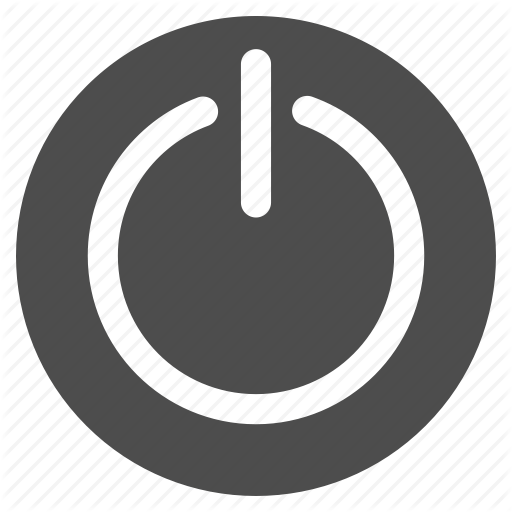
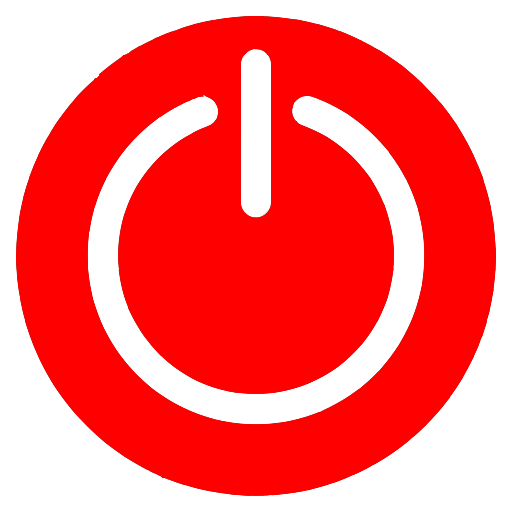
Update Button etc
Updated button with extra stuff

diff --git a/Testing_Pi/pyqt_base.py b/Testing_Pi/pyqt_base.py
@@ -17,6 +17,7 @@ class App(QWidget):
         self.widget=self
         self.left = 10
         self.top = 10
+        self.lastTrigger=time.time()
         self.width = 320
         self.height = 200
         self.setAutoFillBackground(True)
@@ -54,9 +55,9 @@ class App(QWidget):
         self.button.setIcon(QIcon('photo.png'))
         self.button.setIconSize(QSize(size, size))
         self.button.setGeometry(QRect(self.width/2-size/2-diff, self.height/2-size/2+diff*2, size+20, size+20))
-        self.button.clicked.connect(self.on_click)
+        self.button.clicked.connect(self.photo_click)
+        self.button.pressed.connect(self.photo_pressed)
         self.button.setStyleSheet(self.bstyle)
-        self.button.setFlat(True)
         
         #Button Exity
         self.button2 = QPushButton( self)
@@ -66,7 +67,8 @@ class App(QWidget):
         self.button2.setIcon(QIcon('off.png'))
         self.button2.setIconSize(QSize(size, size))
         self.button2.setGeometry(QRect(self.width/2-size/2+diff, self.height/2-size/2+diff*2, size+20, size+20))
-        self.button2.clicked.connect(self.on_click2)
+        self.button2.clicked.connect(self.close_click)
+        self.button2.pressed.connect(self.close_pressed)
         self.button2.setStyleSheet(self.bstyle)
         self.button2.setFlat(True)
 
@@ -76,7 +78,7 @@ class App(QWidget):
         self.sense=QLabel('Nothing to Sense',self)
         self.sense.setStyleSheet("background: transparent;color:white;font-size:36pt")
         width = self.sense.fontMetrics().boundingRect(self.sense.text()).width()
-        self.sense.move(self.width / 2 - width/2, 200)
+        self.sense.move(self.width / 2 - 220, 200)
         self.sense.update()
 
         #Show
@@ -84,15 +86,20 @@ class App(QWidget):
         self.showFullScreen()
 
     def gpio_callback(self,channel):
-        self.sense.setText('Proximity Sense')
-        width = self.sense.fontMetrics().boundingRect(self.sense.text()).width()
-        self.sense.move(self.width / 2 - width/2, 200)
-        self.sense.update()
+        if time.time() > self.lastTrigger + 5:
+            self.lastTrigger=time.time()
+            self.sense.setText('Proximity Sense')
+            width = self.sense.fontMetrics().boundingRect(self.sense.text()).width()
+            self.sense.move(self.width / 2 - width/2, 200)
+            self.sense.update()
+
     def gpio_callback2(self,channel):
-        self.sense.setText('PiR Sense')
-        width = self.sense.fontMetrics().boundingRect(self.sense.text()).width()
-        self.sense.move(self.width / 2 - width/2, 200)
-        self.sense.update()
+        if time.time() > self.lastTrigger + 5:
+            self.lastTrigger=time.time()
+            self.sense.setText('PiR Sense')
+            width = self.sense.fontMetrics().boundingRect(self.sense.text()).width()
+            self.sense.move(self.width / 2 - width/2, 200)
+            self.sense.update()
 
     def takePicture(self):
         if os.name == 'posix':
@@ -100,6 +107,8 @@ class App(QWidget):
             camera.resolution = (1920, 1080)
             camera.capture("test_image.jpg")
             camera.close()
+        else:
+            time.sleep(2)
         self.movie.stop()
         self.moviee.hide()
         pixmap = QPixmap("test_image.jpg")
@@ -119,14 +128,15 @@ class App(QWidget):
         self.moviee.setGeometry(
             QRect(self.width / 2 - size / 2, self.height / 2 - size / 2 - diff, size + 20, size + 20))
         self.moviee.setAttribute(Qt.WA_TranslucentBackground)
-        self.moviee.mouseReleaseEvent=self.on_click3
+        self.moviee.mouseReleaseEvent=self.gif_click
         # self.movie.start
 
 
 
     @pyqtSlot()
-    def on_click(self):
-        print("Qlabel")
+    def photo_click(self):
+        print("PyQt5 button1 click")
+        self.button.setIcon(QIcon('photo.png'))
         self.image.hide()
         self.t1=threading.Thread(target=self.takePicture,args=[])
         self.t1.start()
@@ -134,11 +144,21 @@ class App(QWidget):
         self.movie.start()
 
     @pyqtSlot()
-    def on_click2(self):
+    def close_click(self):
         print('PyQt5 button2 click')
         self.close()
 
-    def on_click3(self,event):
+    @pyqtSlot()
+    def photo_pressed(self):
+        print('PyQt5 button1 pressed')
+        self.button.setIcon(QIcon('photo down.png'))
+
+    @pyqtSlot()
+    def close_pressed(self):
+        print('PyQt5 button2 pressed')
+        self.button2.setIcon(QIcon('off_down.png'))
+
+    def gif_click(self,event):
         print('PyQt5 Gif Click')
 
 

diff --git a/Testing_Pi/pyqt_TEST.py b/Testing_Pi/pyqt_TEST.py
@@ -1,43 +1,30 @@
-#!/usr/bin/python3
-# -*- coding: utf-8 -*-
-
-"""
-ZetCode PyQt5 tutorial
-
-This example shows a tooltip on
-a window and a button.
-
-author: Jan Bodnar
-website: zetcode.com
-last edited: January 2015
-"""
-
 import sys
 from PyQt5.QtWidgets import (QWidget, QToolTip,
                              QPushButton, QApplication)
-from PyQt5 import QtGui,QtCore
-
+from PyQt5.QtGui import QFont
+from PyQt5.QtCore import pyqtSlot
 
 class Example(QWidget):
     def __init__(self):
         super().__init__()
-
         self.initUI()
 
     def initUI(self):
-        QToolTip.setFont(QtGui.QFont('SansSerif', 10))
-
-        self.setToolTip('This is a <b>QWidget</b> widget')
-
         btn = QPushButton('Button', self)
-        btn.setIcon(QtGui.QIcon('off.png'))
-        btn.setIconSize(QtCore.QSize(130, 130))
-        btn.setGeometry(QtCore.QRect(50, 50, 130, 130))
-        btn.setToolTip('This is a <b>QPushButton</b> widget')
+        btn.move(50, 50)
+        btn.clicked.connect(self.conBut)
+        btn.pressed.connect(self.conBut2)
         self.setGeometry(300, 300, 300, 200)
         self.setWindowTitle('Tooltips')
         self.show()
 
+    @pyqtSlot()
+    def conBut(self):
+        print("Button")
+
+    @pyqtSlot()
+    def conBut2(self):
+        print("Button2")
 
 if __name__ == '__main__':
     app = QApplication(sys.argv)
